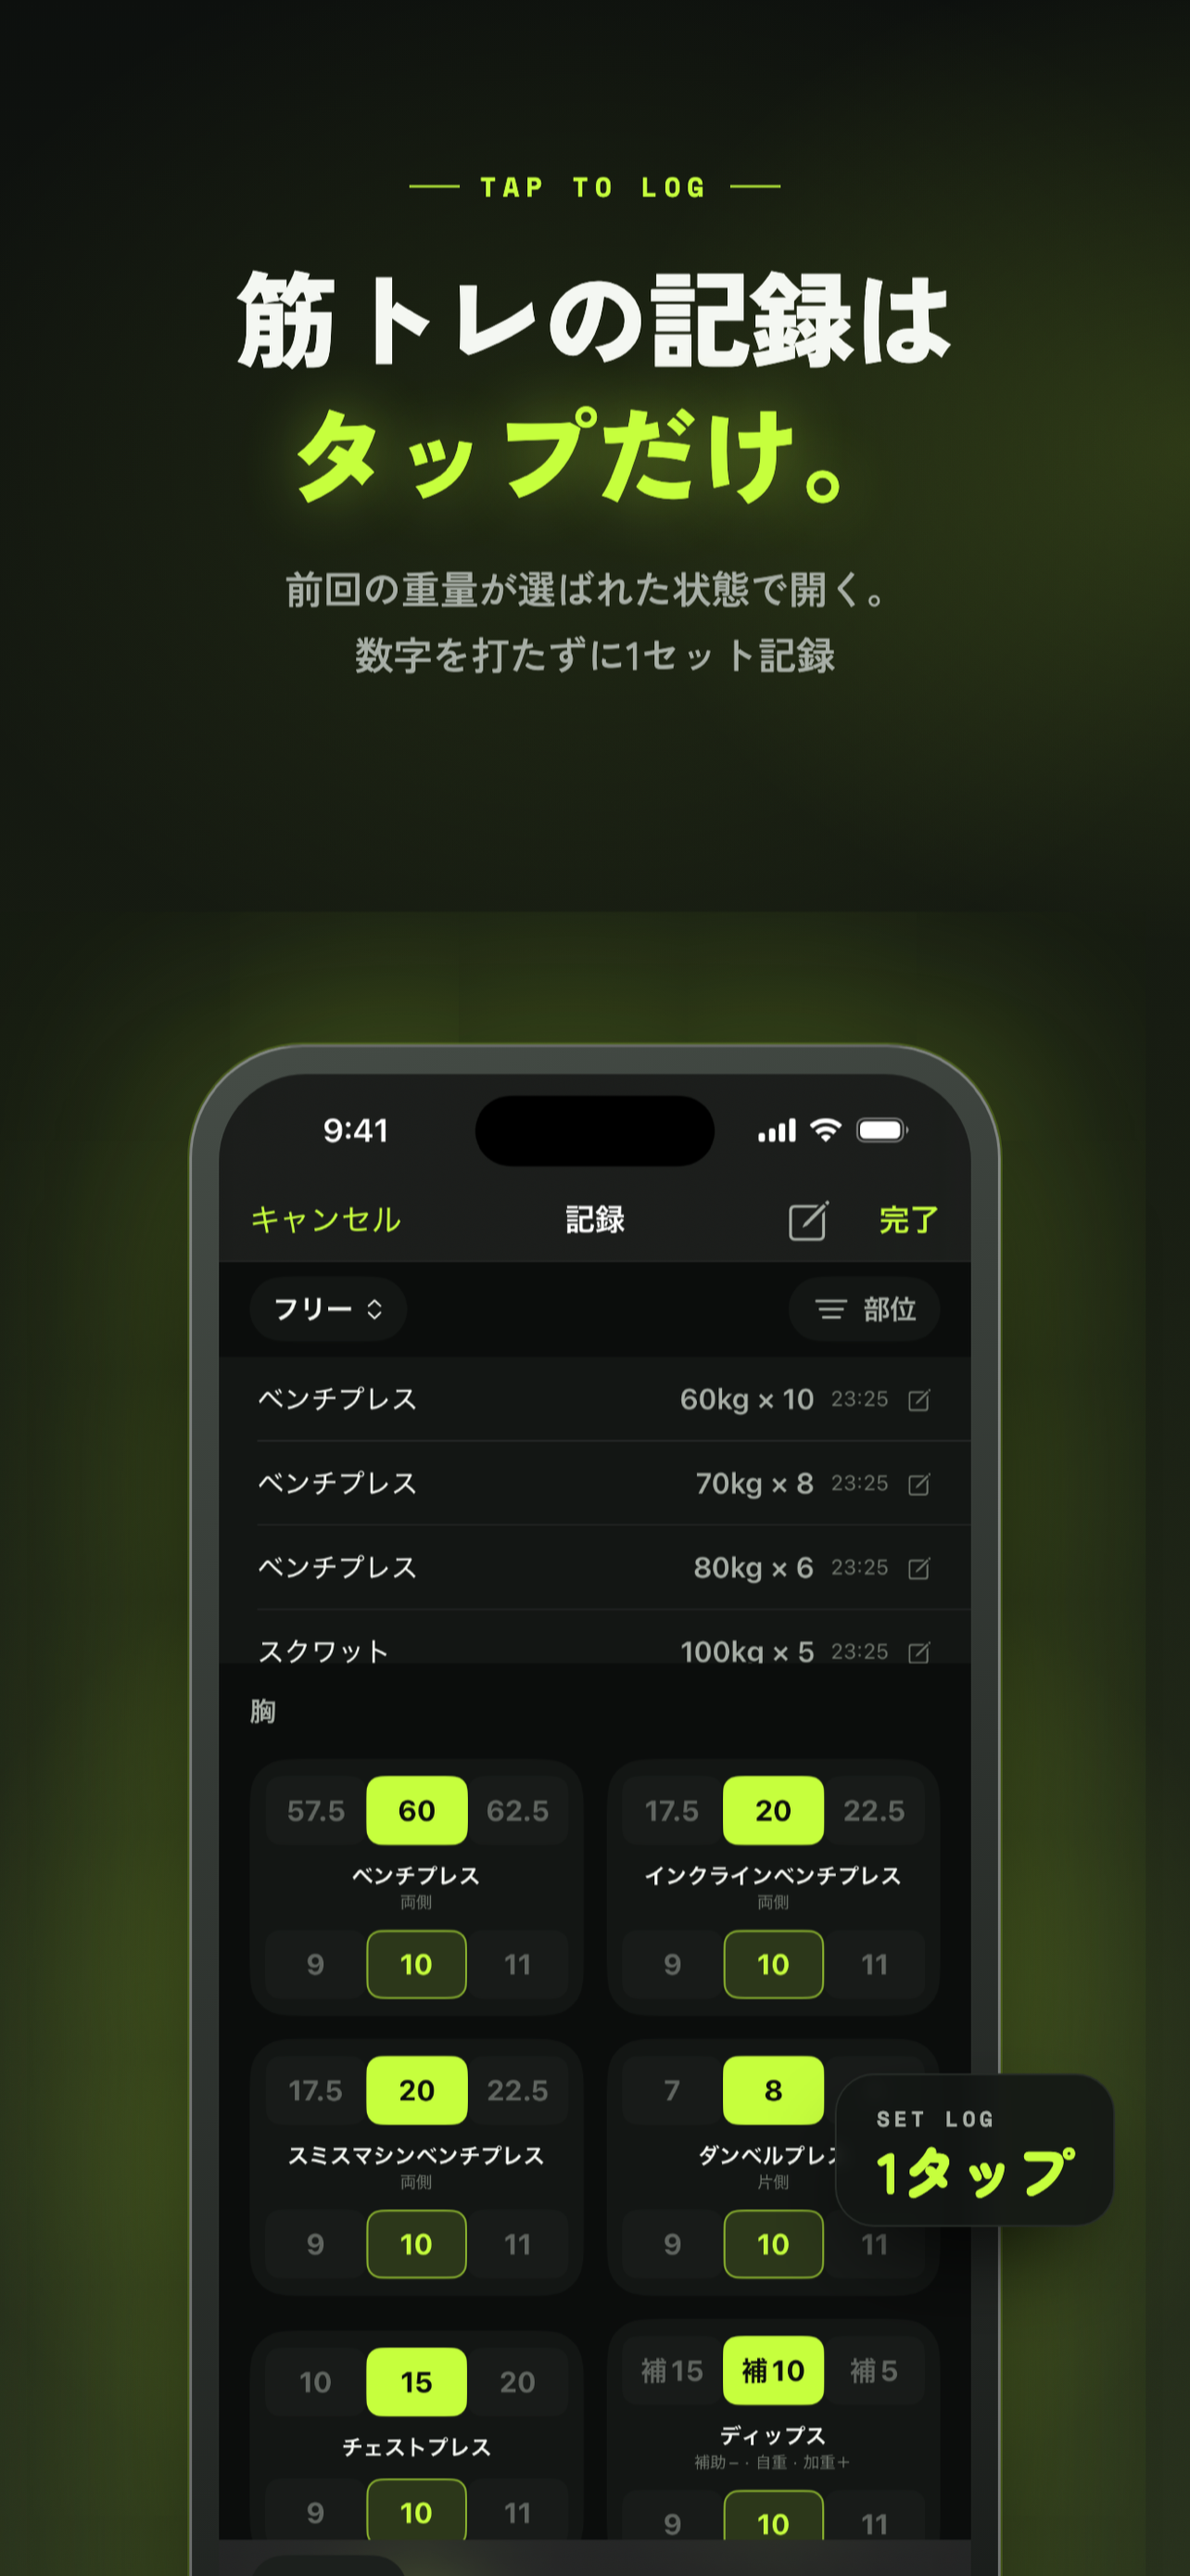
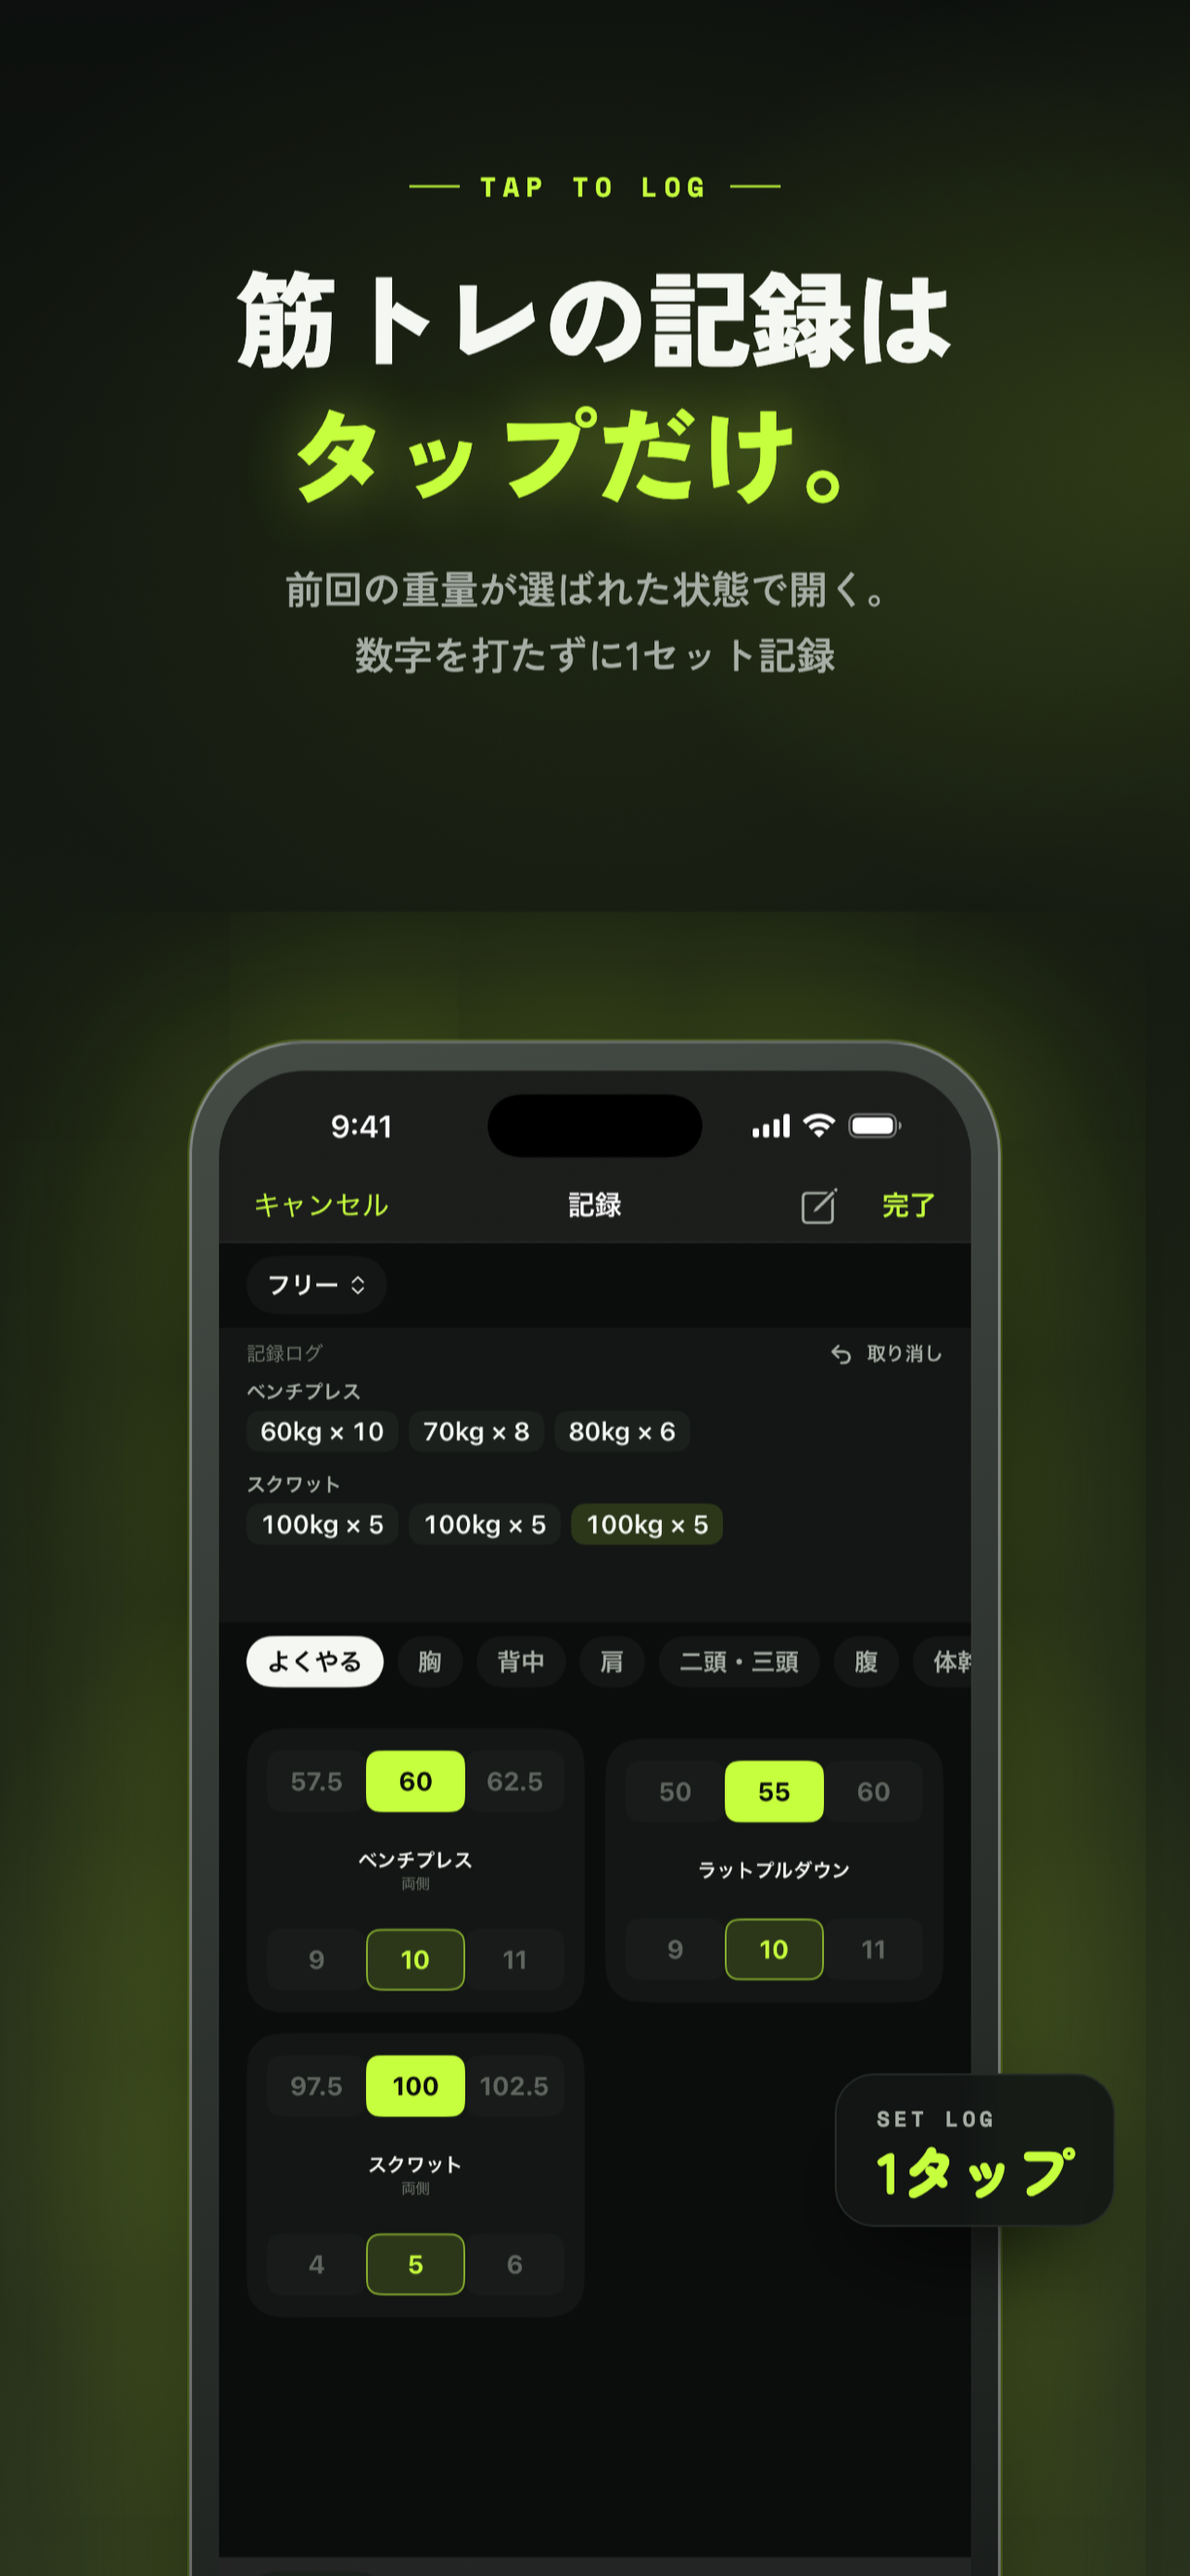
chore(store): 1.3.0 の実画面でストアスクリーンショットを作り直す
チェックイン・ジム機能の撤去と分析タブの人体図刷新により、既存パネルが現行アプリと
乖離していたため差し替える(ガイドライン 2.3.3 対策)。

- チェックインのパネルを廃止し 8枚 → 7枚 構成に
- 分析パネルを人体図(今週の積み上げ・部位ごとのベスト)の訴求に差し替え
- ソーシャルパネルを投稿コンポーザに差し替え(旧パネルはチェックイン投稿が写っていた)
- 記録・カレンダー・実績・共有の生スクショを 1.3.0 のダークUIで撮り直し
- コピーからチェックイン/ジム/推定1RM の表現を除去

DemoData に直近の連続記録を追加。ベンチ履歴が飛び飛びで連続日数が 1 にしかならず、
連続リング・カレンダーの埋まり・今週の積み上げを実データで確認できなかったため。

Claude-Session: https://claude.ai/code/session_01F1zdydc9Jg51KscTeWxmW9

diff --git a/docs/release_information/store_panels/template.html b/docs/release_information/store_panels/template.html
@@ -95,42 +95,35 @@ const PANELS = {
     eyebrow: "KEEP GOING",
     img: "screens/01-home-calendar.png",
     h: "サボった日も\n『続いた日も、残る。』",
-    sub: "ジム通いがカレンダーに積み上がる。連続記録が励みになる",
+    sub: "トレーニングした日がカレンダーに積み上がる。連続記録が励みになる",
     chip: { pos: "br", ov: "STREAK", big: "連続3日" }
   },
   "04": {
-    eyebrow: "PROGRESS",
+    eyebrow: "BODY MAP",
     img: "screens/03-analytics.png",
-    h: "成長が\n『ひと目でわかる。』",
-    sub: "推定1RM・部位バランス・自己ベストの推移をグラフで分析",
-    chip: { pos: "br", ov: "EST. 1RM", big: "100kg" }
+    h: "鍛えた部位が\n『人体図でわかる。』",
+    sub: "今週の積み上げが色で見える。部位を選べば種目ごとのベストも",
+    chip: { pos: "br", ov: "THIS WEEK", big: "12セット" }
   },
   "05": {
-    eyebrow: "PHOTO CHECK-IN",
-    img: "screens/04-checkin.png",
-    h: "写真を撮るだけで\n『チェックイン。』",
-    sub: "GPSがジムを自動判定。ジムを変えても記録は1本のまま",
-    chip: { pos: "br", ov: "GYMS", big: "何軒でも" }
-  },
-  "06": {
     eyebrow: "TRAIN TOGETHER",
     img: "screens/05-social.png",
     h: "友達と応援し合うから\n『続けられる。』",
-    sub: "チェックインや自己ベストがフィードに。合トレのタグ付けも",
+    sub: "記録をそのまま投稿。公開範囲は自分で決められる",
     chip: null
   },
-  "07": {
+  "06": {
     eyebrow: "ACHIEVEMENTS",
     img: "screens/09-profile.png",
     h: "続けた分だけ\n『実績が貯まる。』",
-    sub: "総挙上量・連続週数・ジム活。積み上げが形になる",
+    sub: "総挙上量・ワークアウト数・自己ベスト。積み上げが形になる",
     chip: { pos: "br", ov: "TOTAL LIFTED", big: "10t →" }
   },
-  "08": {
+  "07": {
     eyebrow: "SHARE",
     img: "screens/07-share.png",
     h: "今日の成果を\n『1枚にして共有。』",
-    sub: "写真にサマリを重ねた共有カードをストーリーズへ",
+    sub: "セットのサマリを重ねた共有カードをストーリーズへ",
     chip: null
   },
   // 1〜2枚目の背景連結（検索結果で横並び表示された時に1つの面に見える）

diff --git a/Gymnee/Core/Persistence/DemoData.swift b/Gymnee/Core/Persistence/DemoData.swift
@@ -74,6 +74,25 @@ enum DemoData {
             }
         }
 
+        // 直近の連続記録（連続日数リング・カレンダーの埋まり・今週の積み上げを実データで検証するため、
+        // 今日から遡って途切れない日を作る）。ベンチ履歴が飛び飛びなだけでは連続 1 日にしかならない。
+        let recentStreak: [(Int, String, String, Double, Int)] = [
+            (1, "脚", "スクワット", 100, 8),
+            (2, "背中", "ラットプルダウン", 55, 12),
+        ]
+        for (off, name, exerciseName, weight, reps) in recentStreak {
+            guard let date = cal.date(byAdding: .day, value: -off, to: today),
+                  let ex = (try? context.fetch(FetchDescriptor<Exercise>(predicate: #Predicate { $0.name == exerciseName })))?.first
+            else { continue }
+            let workout = Workout(userId: userId, date: date, name: name, completedAt: date, isDirty: false)
+            context.insert(workout)
+            let we = WorkoutExercise(orderIndex: 0, workout: workout, exercise: ex, isDirty: false)
+            context.insert(we)
+            for i in 0..<3 {
+                context.insert(ExerciseSet(setIndex: i, weight: weight, reps: reps, isCompleted: true, workoutExercise: we, isDirty: false))
+            }
+        }
+
         // 身体メトリクス（体重推移チャート＋サイズ）のデモ。
         let bodyHistory: [(Int, Double, Double)] = [(120, 75.0, 18.0), (90, 74.2, 17.2), (60, 73.5, 16.5), (30, 73.0, 16.0), (1, 72.5, 15.0)]
         for (off, w, bf) in bodyHistory {
